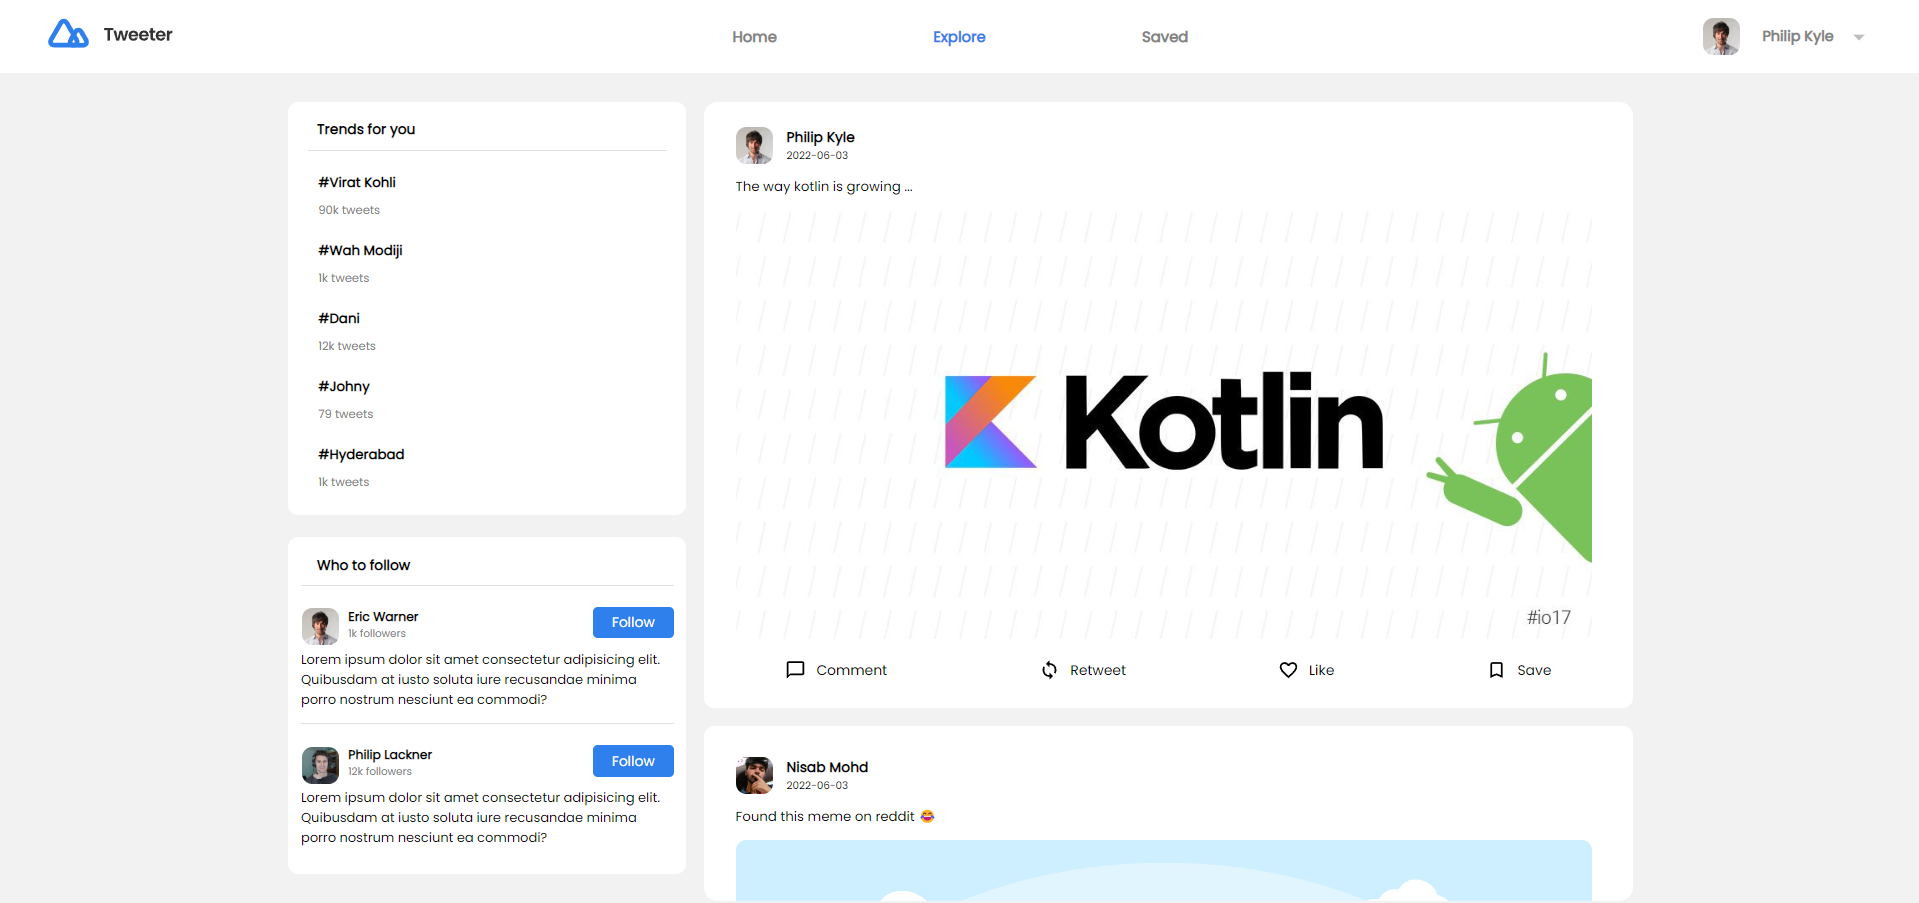
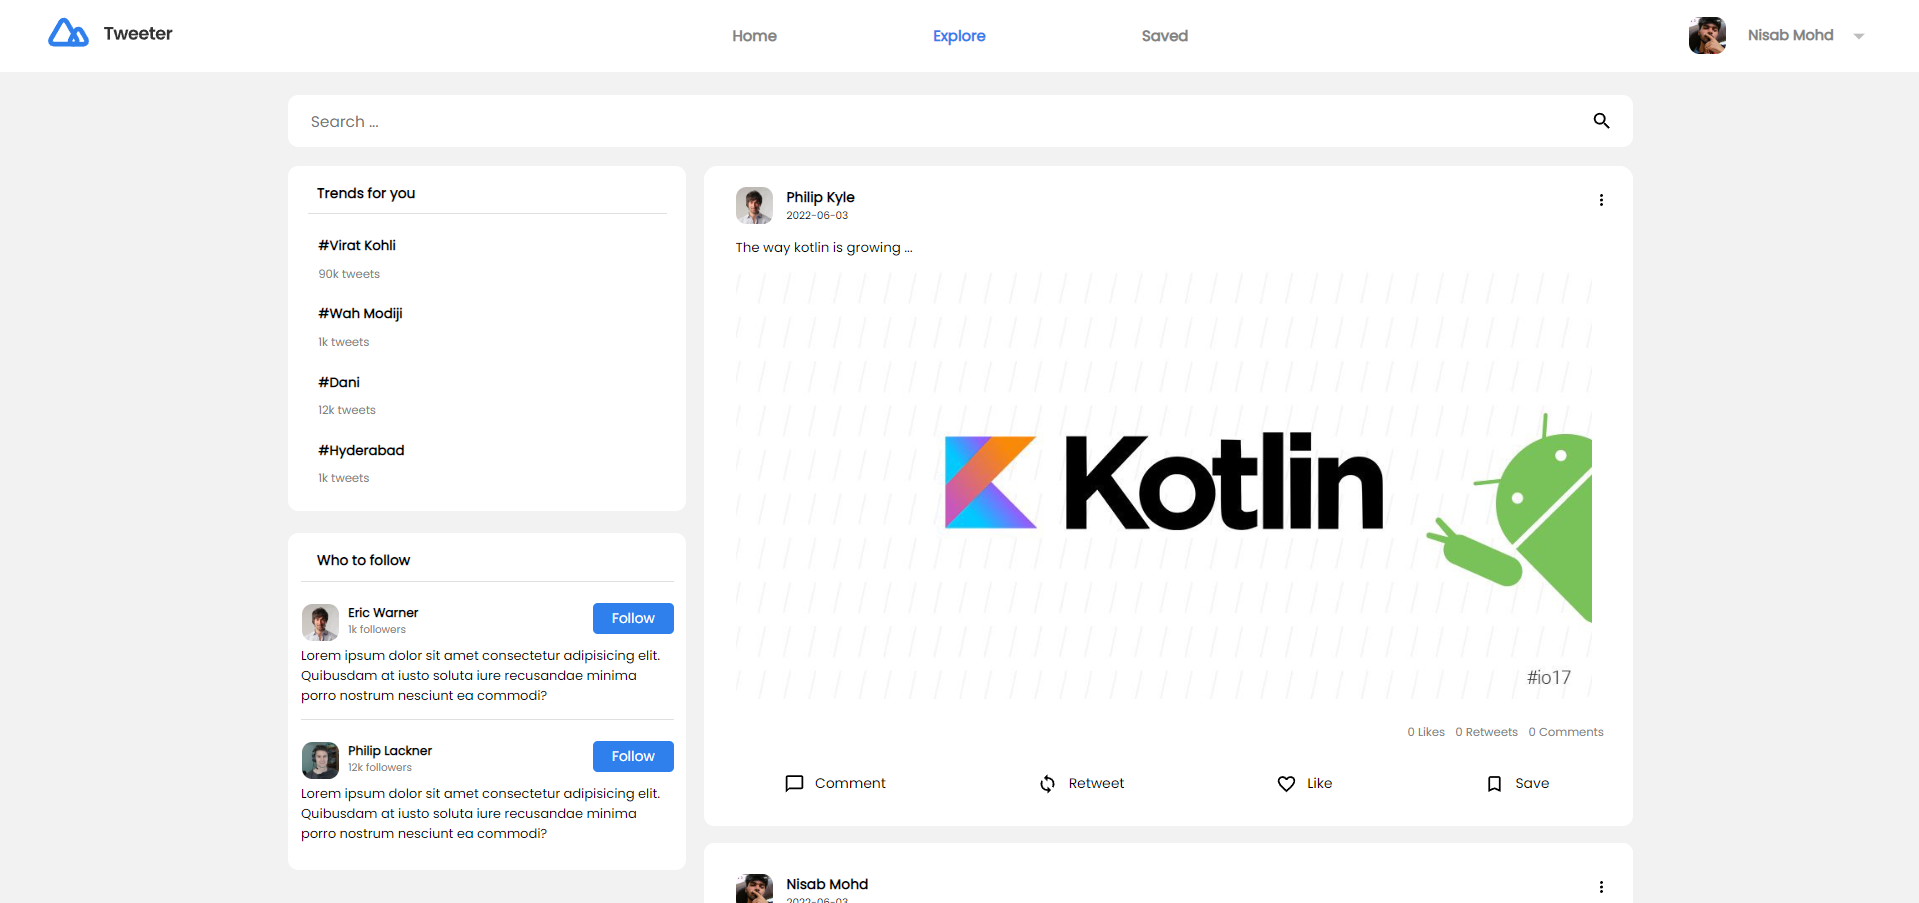
post ui chnages

diff --git a/app/client/src/components/Post.js b/app/client/src/components/Post.js
@@ -5,7 +5,7 @@ import FavoriteBorderIcon from '@mui/icons-material/FavoriteBorder';
 import BookmarkBorderIcon from '@mui/icons-material/BookmarkBorder';
 import { baseurl } from '../apicalls'
 import { Link } from "react-router-dom";
-
+import MoreVertIcon from '@mui/icons-material/MoreVert';
 
 export default function Post(props) {
     const [user, setuser] = useState(null)
@@ -18,18 +18,19 @@ export default function Post(props) {
         getUserDetails()
     }, [])
     return (
-        <div style={{backgroundColor: 'white', borderRadius: '9px', marginBottom: '15px', paddingBottom:'15px'}}>
-            <Link to={`/post/postid=${props.postid}`} style={{ textDecoration: 'none', color: 'inherit' }} >
-                <div className='post' style={{padding: '12px', backgroundColor: 'white', borderRadius: '9px' }}>
-                    <div className="userheader">
-                        <div className="user" style={{ display: 'flex', flexDirection: 'row', alignItems: 'center', marginTop: '15px' }}>
-                            <img style={{ width: '32px', borderRadius: '9px', marginLeft: '2%' }} src={user?.userimg} alt="" />
-                            <div className="timeuser" style={{ display: 'flex', flexDirection: 'column', }}>
-                                <h6 style={{ fontSize: '12px', margin: '0', marginLeft: '12px', width: 'fit-content' }}>{user?.username}</h6>
-                                <p style={{ fontSize: '9px', margin: '0', marginLeft: '12px' }}>{props.date}</p>
-                            </div>
+        <div style={{ backgroundColor: 'white', borderRadius: '9px', marginBottom: '15px', paddingBottom: '15px' }}>
+            <div className='post' style={{ padding: '12px', backgroundColor: 'white', borderRadius: '9px', position: 'relative',paddingBottom:'5.5px' }}>
+                <div className="userheader">
+                    <div className="user" style={{ display: 'flex', flexDirection: 'row', alignItems: 'center', marginTop: '15px' }}>
+                        <img style={{ width: '32px', borderRadius: '9px', marginLeft: '2%' }} src={user?.userimg} alt="" />
+                        <div className="timeuser" style={{ display: 'flex', flexDirection: 'column', }}>
+                            <h6 style={{ fontSize: '12px', margin: '0', marginLeft: '12px', width: 'fit-content' }}>{user?.username}</h6>
+                            <p style={{ fontSize: '9px', margin: '0', marginLeft: '12px' }}>{props.date}</p>
                         </div>
                     </div>
+                    <MoreVertIcon style={{ fontSize: "16px", cursor: 'pointer', position: 'absolute', top: '30px', right: '19px' }} />
+                </div>
+                <Link to={`/post/postid=${props.postid}`} style={{ textDecoration: 'none', color: 'inherit' }} >
                     <div className="captions">
                         <p style={{ fontSize: '11.5px', marginLeft: '2%' }}>{props.caption}</p>
                         <div className="hashtags" style={{ display: 'flex', flexDirection: 'row' }}>
@@ -45,12 +46,14 @@ export default function Post(props) {
                             props.img ? <img src={props.img} style={{ width: '95%', margin: 'auto', marginLeft: "2%", borderRadius: '9px' }} alt="" /> : <></>
                         }
                     </div>
-                </div>
-            </Link>
-            <div className="benchmarks">
-
+                </Link>
             </div>
-            <div className="actionbuttons" style={{ display: 'flex', flexDirection: 'row', alignItems: 'center', justifyContent: 'space-between', width: '85%', margin: 'auto', marginTop: '19px' }}>
+            <div className="benchmarks" style={{display:'flex',flexDirection:'row',width:'fit-content',marginLeft:'auto',marginRight:'2%'}}>
+                <p style={{ fontSize: '10px', color: 'rgb(130, 130, 130)', marginRight:"9px"}}>{props.likes.length} Likes</p>
+                <p style={{ fontSize: '10px', color: 'rgb(130, 130, 130)', marginRight:"9px"}}>{props.retweets.length} Retweets</p>
+                <p style={{ fontSize: '10px', color: 'rgb(130, 130, 130)', marginRight:"9px"}}>{props.comments.length} Comments</p>
+            </div>
+            <div className="actionbuttons" style={{ display: 'flex', flexDirection: 'row', alignItems: 'center', justifyContent: 'space-between', width: '85%', margin: 'auto', marginTop: '6px' }}>
                 <div className="comments hoverbtn" style={{ display: 'flex', flexDirection: 'row', alignItems: 'center', padding: '0.2px 9px', borderRadius: '6px', cursor: 'pointer', paddingRight: '12px' }}>
                     <ChatBubbleOutlineIcon style={{ width: '18px', marginRight: '9px' }} />
                     <p style={{ fontSize: '12px' }}>Comment</p>

diff --git a/app/client/src/pages/Explore.js b/app/client/src/pages/Explore.js
@@ -18,7 +18,7 @@ export default function Explore() {
 
   return (
     <>
-    <div className="container">
+    <div className="container" style={{marginTop:'-5px'}}>
       <div className="searchbar" style={{width:'100%',backgroundColor:'white',height:'45px',borderRadius:'9px',marginBottom:'-9px',display:'flex',flexDirection:'row',justifyContent:'center',alignItems:'center'}}>
         <input type="text" style={{ height:'85%',width:'95%',outline:'none',border:'none',fontFamily: 'Poppins' }} placeholder="Search ..." />
         <SearchIcon style={{fontSize:'19px',cursor:'pointer'}}/>
@@ -33,7 +33,7 @@ export default function Explore() {
         <div className="posts" style={{}}>
           {
             posts.map(item => {
-              return <Post postid={item.post_id} hashtag={item.hashtag} uid={item.uid} date={item.timestamp.toLocaleString("en-US").slice(0, 10)} key={item.post_id} userimg={item.userimg} img={item.image} name={item.username} caption={item.caption} />
+              return <Post likes={item.likes} comments={item.comments} retweets={item.retweet} postid={item.post_id} hashtag={item.hashtag} uid={item.uid} date={item.timestamp.toLocaleString("en-US").slice(0, 10)} key={item.post_id} userimg={item.userimg} img={item.image} name={item.username} caption={item.caption} />
             })
           }
         </div>

diff --git a/app/client/src/pages/Profile.js b/app/client/src/pages/Profile.js
@@ -58,7 +58,7 @@ export default function Profile(props) {
                     <div className="posts">
                         {
                             posts.map(item => {
-                                return <Post postid={item.post_id}  hashtag={item.hashtag} uid={item.uid} date={item.timestamp.toLocaleString("en-US").slice(0, 10)} key={item.post_id} userimg={item.userimg} img={item.image} name={item.username} caption={item.caption} />
+                                return <Post likes={item.likes} comments={item.comments} retweets={item.retweet} postid={item.post_id}  hashtag={item.hashtag} uid={item.uid} date={item.timestamp.toLocaleString("en-US").slice(0, 10)} key={item.post_id} userimg={item.userimg} img={item.image} name={item.username} caption={item.caption} />
                             })
                         }
                     </div>
